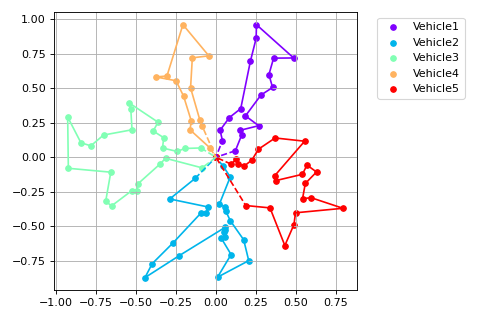
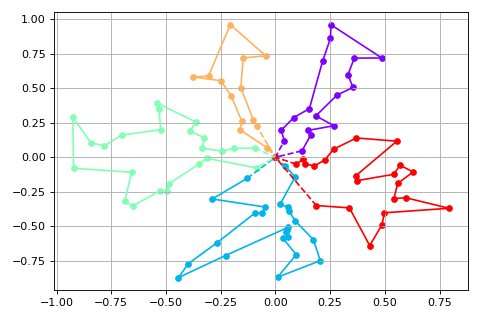
recent updates

diff --git a/Solution.py b/Solution.py
@@ -66,7 +66,7 @@ class Solution:
             plt.plot(xs, ys,c=c,linestyle='dashed')
             count+=1 
         plt.grid()
-        plt.legend(bbox_to_anchor=(1.05, 1.0), loc='upper left')
+        #plt.legend(bbox_to_anchor=(1.05, 1.0), loc='upper left')
         plt.tight_layout()
         plt.savefig("plots/"+title)
         plt.show()

diff --git a/README.md b/README.md
@@ -27,31 +27,32 @@ Below are the plots of each solution:
 
 ### instanceBUni
 
-![instanceBUni.png](plots/instanceBUni.png)
+<img src="plots/instanceBUni.png" alt="instanceBUni.png" width="350"/>
 
 ### instanceCUni
 
-![instanceCUni.png](plots/instanceCUni.png)
+<img src="plots/instanceCUni.png" alt="instanceCUni.png" width="350"/>
 
 ### instanceDUni
 
-![instanceDUni.png](plots/instanceDUni.png)
+<img src="plots/instanceDUni.png" alt="instanceDUni.png" width="350"/>
 
 ### instanceAExp
 
-![instanceAExp.png](plots/instanceAExp.png)
+<img src="plots/instanceAExp.png" alt="instanceAExp.png" width="350"/>
 
 ### instanceBExp
 
-![instanceBExp.png](plots/instanceBExp.png)
+<img src="plots/instanceBExp.png" alt="instanceBExp.png" width="350"/>
 
 ### instanceCExp
 
-![instanceCExp.png](plots/instanceCExp.png)
+<img src="plots/instanceCExp.png" alt="instanceCExp.png" width="350"/>
 
 ### instanceDExp
 
-![instanceDExp.png](plots/instanceDExp.png)
+<img src="plots/instanceDExp.png" alt="instanceDExp.png" width="350"/>
+
 
 ## Problem Instance Format
 
